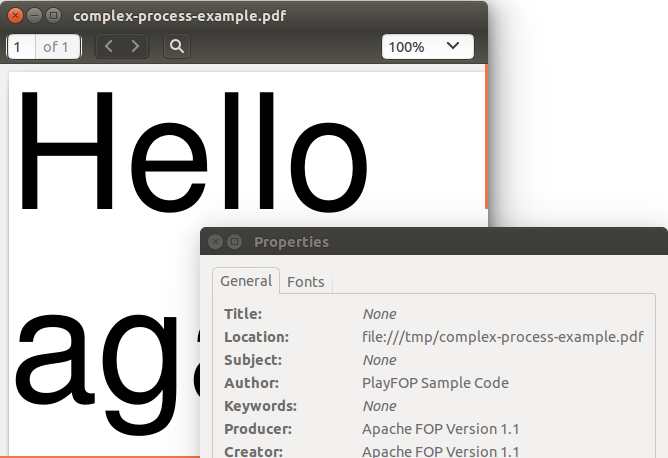
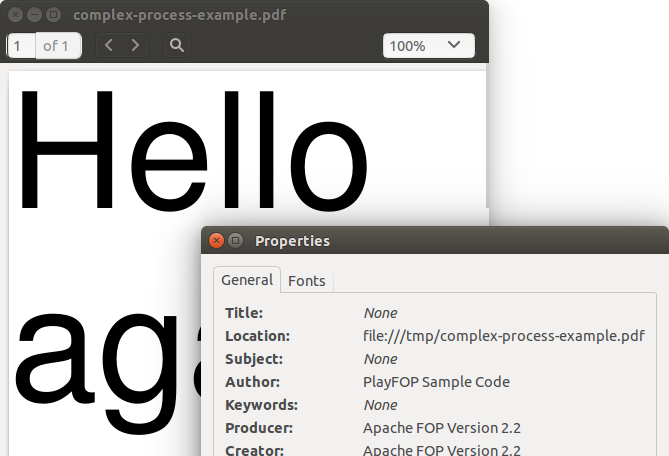
Upgrade to Apache FOP 2.2 and PDFBox 2.0.4

diff --git a/library/src/test/java/com/dmanchester/playfop/japi/PlayFopTest.java b/library/src/test/java/com/dmanchester/playfop/japi/PlayFopTest.java
@@ -29,10 +29,12 @@ import org.apache.fop.apps.Fop;
 import org.apache.fop.fo.FOTreeBuilder;
 import org.apache.fop.fonts.FontInfo;
 import org.apache.fop.fonts.Typeface;
+import org.apache.pdfbox.cos.COSName;
 import org.apache.pdfbox.pdmodel.PDDocument;
 import org.apache.pdfbox.pdmodel.PDPage;
-import org.apache.pdfbox.pdmodel.font.PDFont;
-import org.apache.pdfbox.util.PDFTextStripper;
+import org.apache.pdfbox.pdmodel.PDPageTree;
+import org.apache.pdfbox.pdmodel.PDResources;
+import org.apache.pdfbox.text.PDFTextStripper;
 import org.apache.xmlgraphics.util.MimeConstants;
 import org.junit.Test;
 
@@ -213,18 +215,20 @@ public class PlayFopTest {
     private void checkForFontFamily(byte[] pdfBytes, final String fontFamily) {
 
         PDDocument pdDocument = toPDDocument(pdfBytes);
-
-        @SuppressWarnings("unchecked")
-        List<PDPage> pdPages = (List<PDPage>)pdDocument.getDocumentCatalog().getAllPages();
+        PDPageTree pdPageTree = pdDocument.getDocumentCatalog().getPages();
 
         Set<String> fonts = new HashSet<>();
 
-        for (PDPage pdPage : pdPages) {
+        for (PDPage pdPage : pdPageTree) {
 
-            Collection<PDFont> pdFontsOnPage = pdPage.getResources().getFonts().values();
+            PDResources pdResources = pdPage.getResources();
 
-            for (PDFont pdFontOnPage : pdFontsOnPage) {
-                fonts.add(pdFontOnPage.getBaseFont());
+            for (COSName fontName : pdResources.getFontNames()) {
+                try {
+                    fonts.add(pdResources.getFont(fontName).getName());
+                } catch (IOException e) {
+                    throw new RuntimeException(e);
+                }
             }
         }
 
